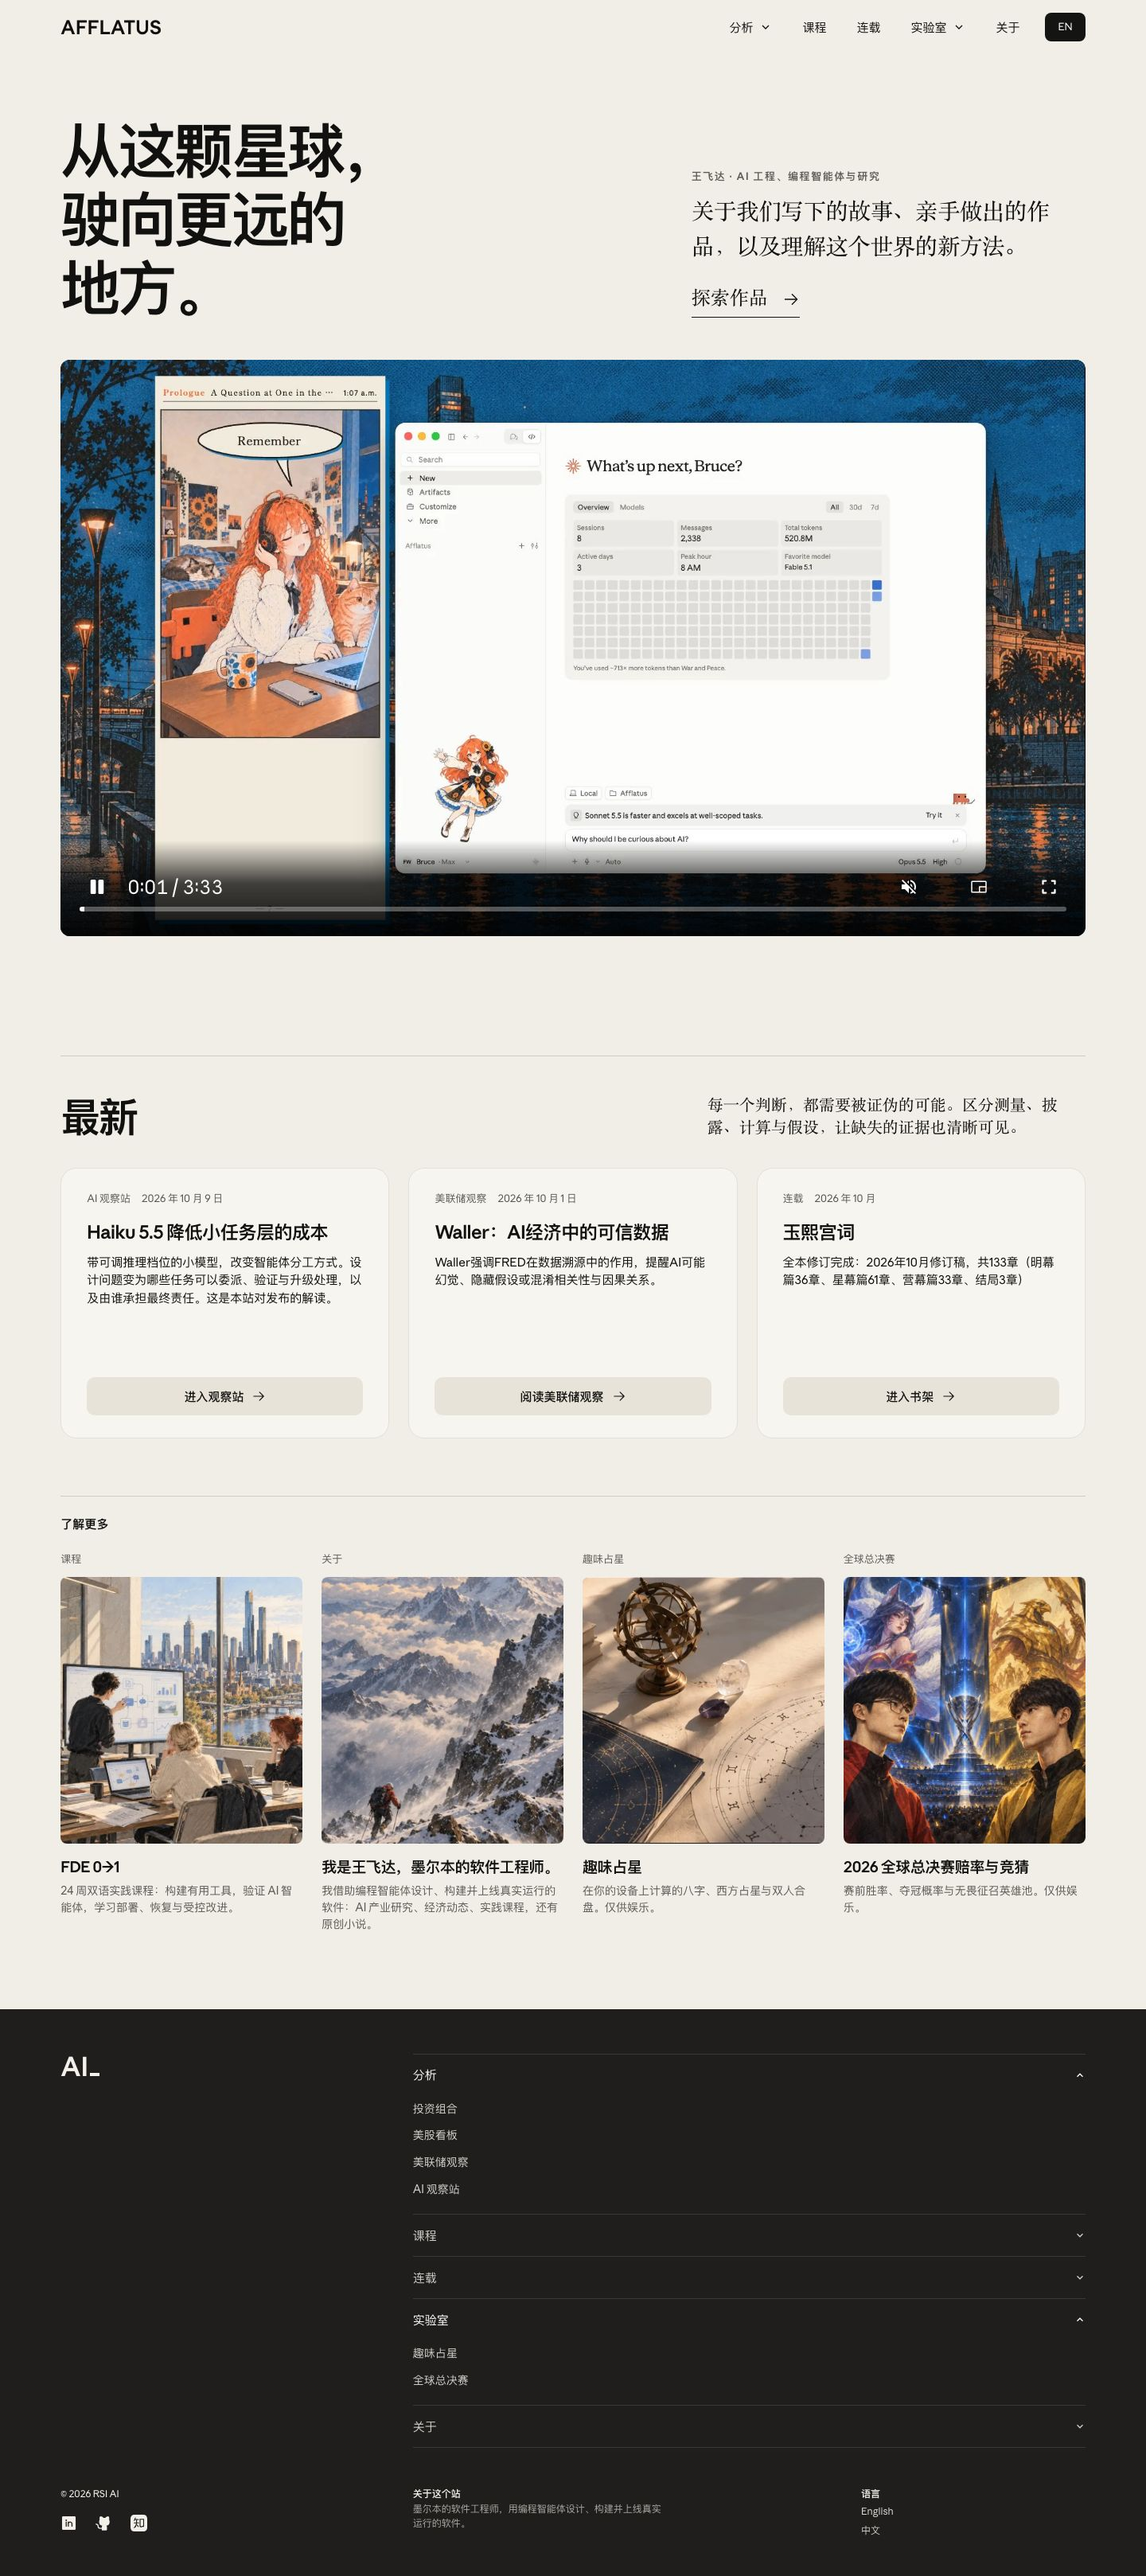
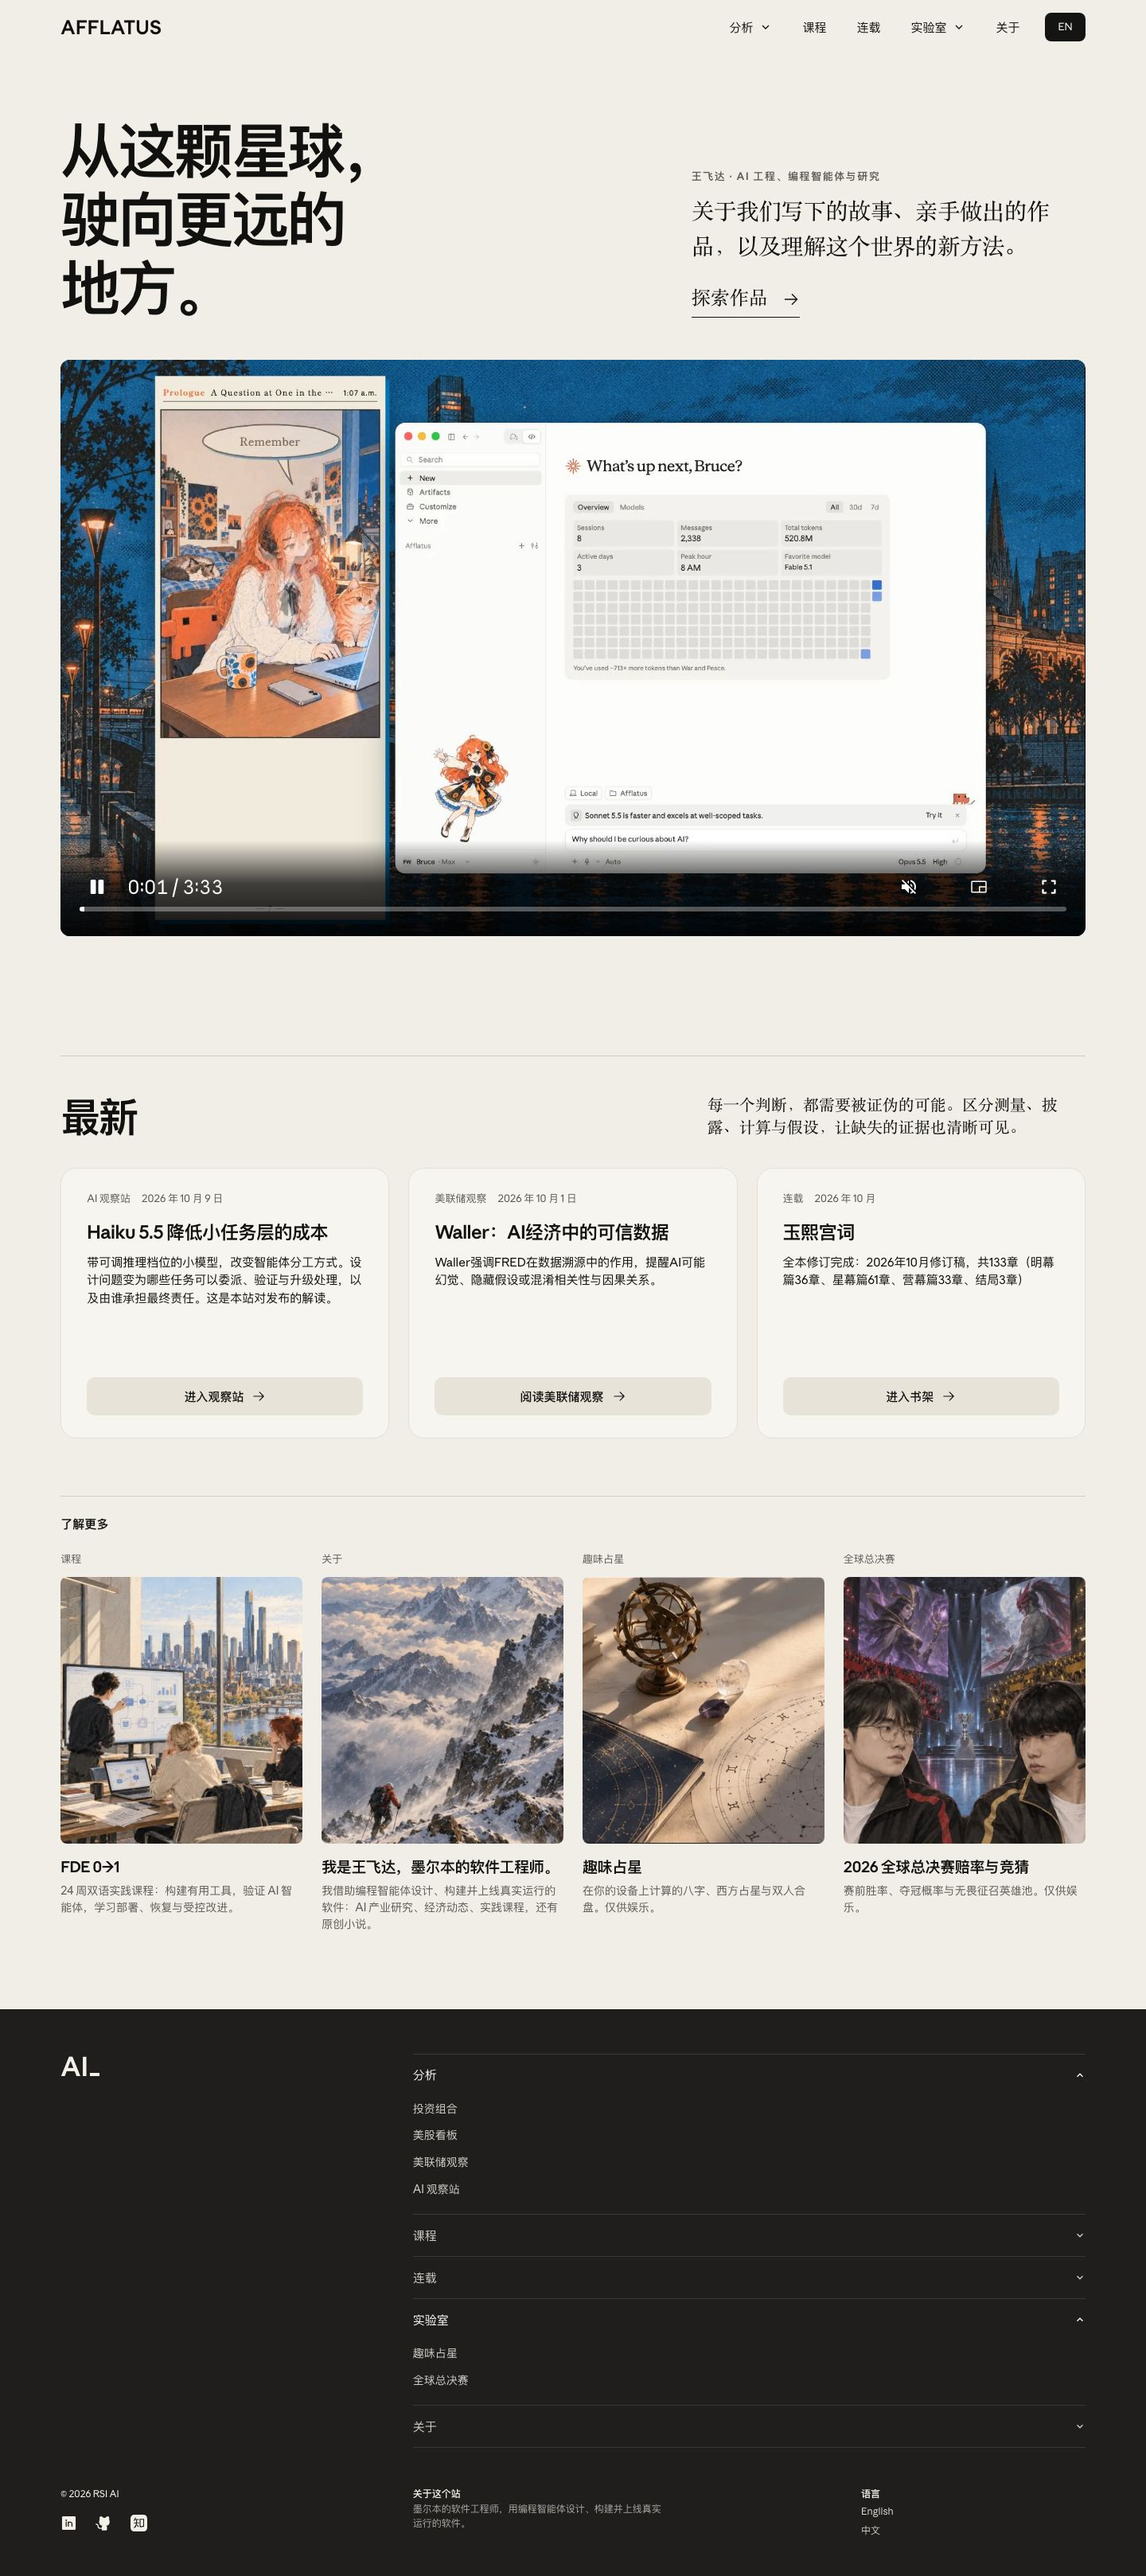
feat(home): redraw the Worlds cover with LeBlanc and Yone
Faker and Chovy now face each other, drawn from descriptions of public
photos, with the champions facing off on the stage screens. The cup is
in real proportion and both teams' fans fill the stands.

Changed region(s): [[0.7188, 0.593, 0.9688, 0.7179], [0.1875, 0.1561, 0.3125, 0.2497]]

diff --git a/docs/homepage-collapse-2026-11-01/roadmap.md b/docs/homepage-collapse-2026-11-01/roadmap.md
@@ -195,7 +195,7 @@ AFFLATUS
 | 6 | 手机菜单 | 深色全屏 + 最新轮播（M5），放 P4；P1 先在现有米色菜单里按 5 组分段 |
 | 7 | 图卡封面 | 新出 4 张 1:1.1 无文字封面，P2 开工前准备 |
 | 8 | 专题页 URL | `/search.html?topic=`，为站内搜索留位 |
-| 9 | 「了解更多」四张卡 | 按页面：课程 · 关于 · 趣味占星 · 全球总决赛（§4-M2）；课程、关于、占星封面由站主提供，全球总决赛封面用 Figma 重画（Faker、Chovy），存为 `public/assets/home/learn-{courses,about,astrology,worlds}.webp`，取代 §5 的按分组写法 |
+| 9 | 「了解更多」四张卡 | 按页面：课程 · 关于 · 趣味占星 · 全球总决赛（§4-M2）；课程、关于、占星封面由站主提供，全球总决赛封面用 Figma 重画（Faker 配乐芙兰、Chovy 配永恩），存为 `public/assets/home/learn-{courses,about,astrology,worlds}.webp`，取代 §5 的按分组写法 |
 | 10 | 「≤ 18 链接」口径 | 只算顶栏导航和正文：顶栏 9 + Hero 1 + 7 张卡各 1 个链接 = 17，页脚另计；因此不做 §4-M2 卡片结构里的两条行链接 |
 
 原型（`mock/`）与截图仍是敲定前的 Markets / Learn / Stories 命名和 `/topics.html` 地址，实施以本节为准，不再更新原型。
